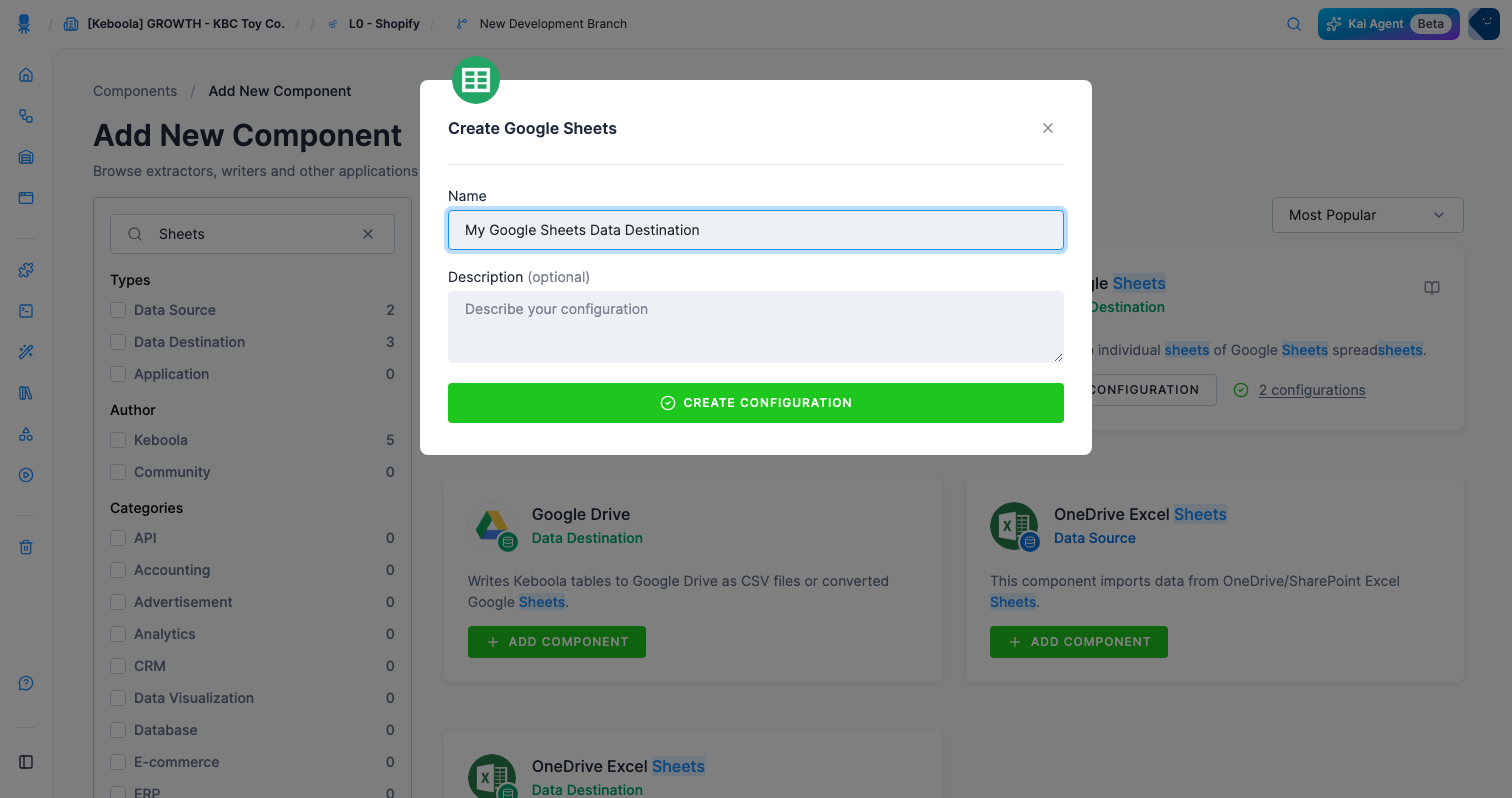
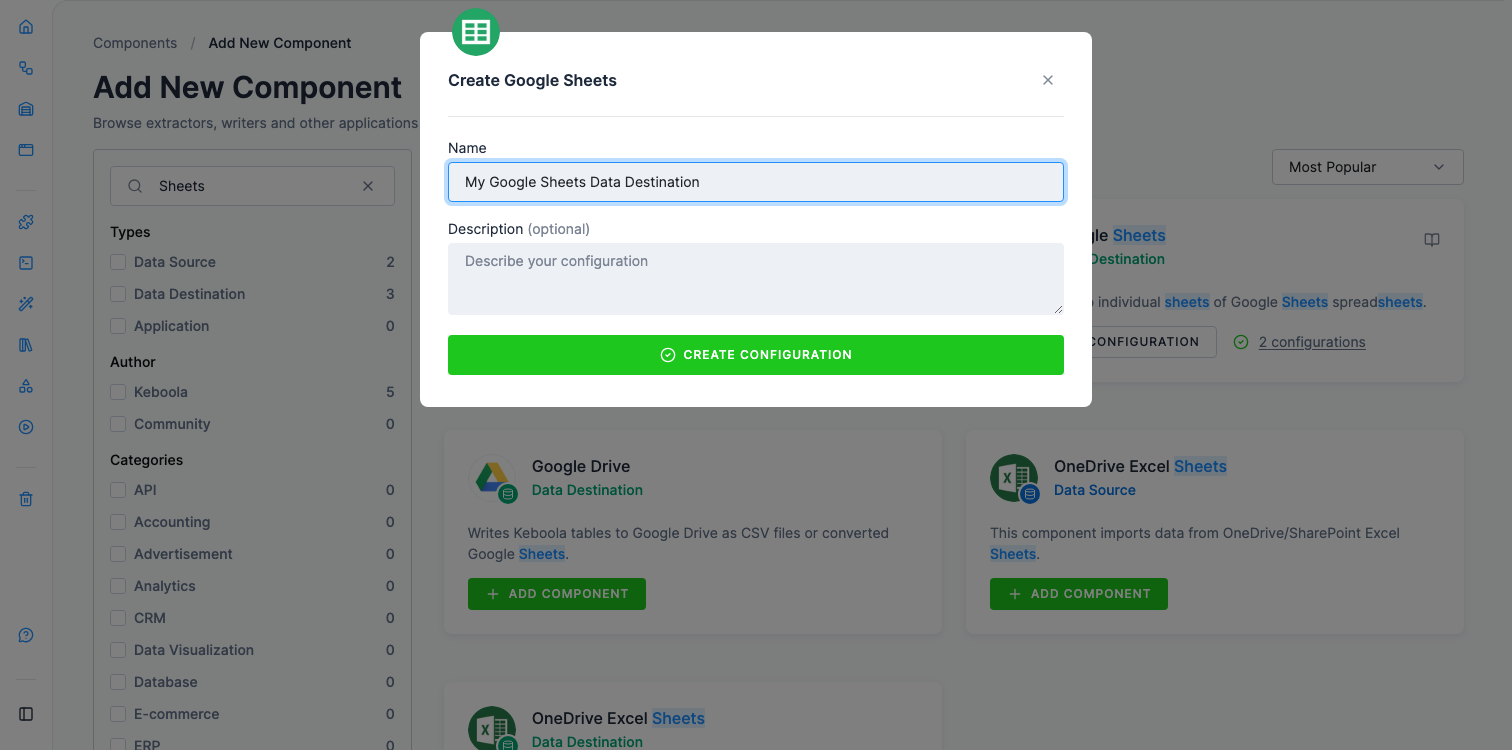
PRDCT-487: finish the screenshot sweep, crop three more top bars
Every remaining image went through contact sheets: 55 files outside the two
directories the scrub covers, plus a strip of the top 56 pixels of every
screenshot that could carry a header. Three more had the organization, project,
branch and avatar in frame, all on the Sheets writer page. All three now start
at the breadcrumb.

What the sweep cleared is worth recording so nobody repeats it: the flow and
Storage screens carry internal job labels and scheduler IDs rather than people,
the Storage list views show component names in "Recently Updated By", and the
notifications screen's mention of colleagues is interface text with no address
in it.

Three unreferenced files go with this: one lost its page in the rewrite, one was
superseded by the GIF that replaced it, and one was byte-identical to the copy
the page actually links. A fourth looked unreferenced from inside Getting
Started and was not, since the legacy Flows page still uses it; it was restored
before committing. Check the whole content tree, not the section.

diff --git a/CONSERVATION-REPORT.md b/CONSERVATION-REPORT.md
@@ -60,6 +60,7 @@ not yet done).
 | The hub's café-story opening (two paragraphs: rosters by weekday, demand reading the weather) and "The sales file alone can plot a summer…" | `index.mdx` | Deleted 2026-09-14, not moved: Michal asked the hub to be drier and the dataset to stop carrying the page. The same facts are on `load/` under "The sample data" (six cafés, the five files, what each one knows), and the roster/weather mechanic is explained where it is used, in `transform/` under "What the SQL has to do". |
 | The hub's "Get a project" section (three routes, stack paragraph, Find your way around, checks, failures) | `index.mdx` | Back to its own page `getting-started/project/` 2026-09-14, trimmed: the stack paragraph is one sentence plus a link, and the Kai-allowance VERIFY travelled with it. |
 | `automate/02-add-task.png`, the Add Task menu still | `automate/index.mdx` | Replaced 2026-09-22 by `add-task.gif`. Not the same menu: the still showed the phase toolbar's three-item Add Task menu; the GIF shows the standalone + above the first phase, whose menu also offers Conditions, then the picker that Component opens. The three-item menu is still described in the prose of the same section. |
+| `write/writing1.png`, `load/08-forecast-code-editor.png`, `automate/09-all-runs.png` (3) | unreferenced | Deleted 2026-09-22 after a sweep of all 142 images: writing1 lost its page in the rewrite, 08-forecast-code-editor was superseded by `forecast-row-code-editor.gif`, and 09-all-runs was byte-identical to the copy under `check/` that the page actually links. `automate/automate1.png` looked orphaned too and was kept: `flows/flows-legacy/index.md:61` still uses it. |
 | Google's own screens: `load/allow.png`, `load/access-to-spreadsheets.png`, `load/find-spreadsheet.png`, `load/google-sheets-spreadsheet.png`, `write/writing6.png` (5) | `load/googlesheets.mdx`, `write/index.mdx` | Deleted 2026-09-22. Three carried a colleague's e-mail address, and all five picture a vendor UI we do not control: Michal's test showed Google's buttons had already moved since these were shot. The steps now say what to do there and link Google's own help, which is the rule the usability test produced. |
 | Workspace list views: `transform/workspaces4.png`, `5`, `6` (3) | `transform/workspace.mdx` | Deleted 2026-09-22: each shows a colleague's name in the Last Change, Last Use or Versions column. Steps 4 to 6 read without them; a reshoot must be a filtered or element capture, not a full list. |
 | `transform/workspaces7.png`, the Connect dialog | `transform/workspace.mdx:155` | Deleted 2026-09-22: a live Snowflake host, user, database and schema in one frame, and stale besides — it shows password auth where the workspace now issues a key pair. The step already spells out both routes in text. |

diff --git a/DECISIONS.md b/DECISIONS.md
@@ -940,6 +940,26 @@ usability test, applied where the drift is widest.
 
 ---
 
+## 2026-09-22 — The sweep, and what it did not find
+
+Every remaining image in the section went through contact sheets: 55 files outside the two
+directories the scrub covers, plus a strip of the top 56 pixels of every screenshot that could
+plausibly carry a header. Three more turned up with the organization, project, branch and avatar in
+frame, all on the Sheets writer page, and all three are cropped to start at the breadcrumb.
+
+What the sweep did not find is worth recording too, so nobody repeats it. The flow and Storage
+screens carry internal job labels and scheduler IDs, not people. The Storage list views show
+component names in "Recently Updated By", not colleagues. The notifications screen says "Choose from
+your colleagues or enter an email address" as interface text, with no address in it. Those are
+fine and should stay.
+
+Three unreferenced files went at the same time. A fourth, `automate/automate1.png`, looked
+unreferenced from inside Getting Started and is not: the legacy Flows page still uses it. It was
+restored before the commit. Checking `src/content/docs/` as a whole rather than the section is the
+lesson.
+
+---
+
 ## 2026-09-22 — The PII the scrub never listed, and the first use of the third-party rule
 
 Reading every image in the section turned up sixteen files carrying something that should not
